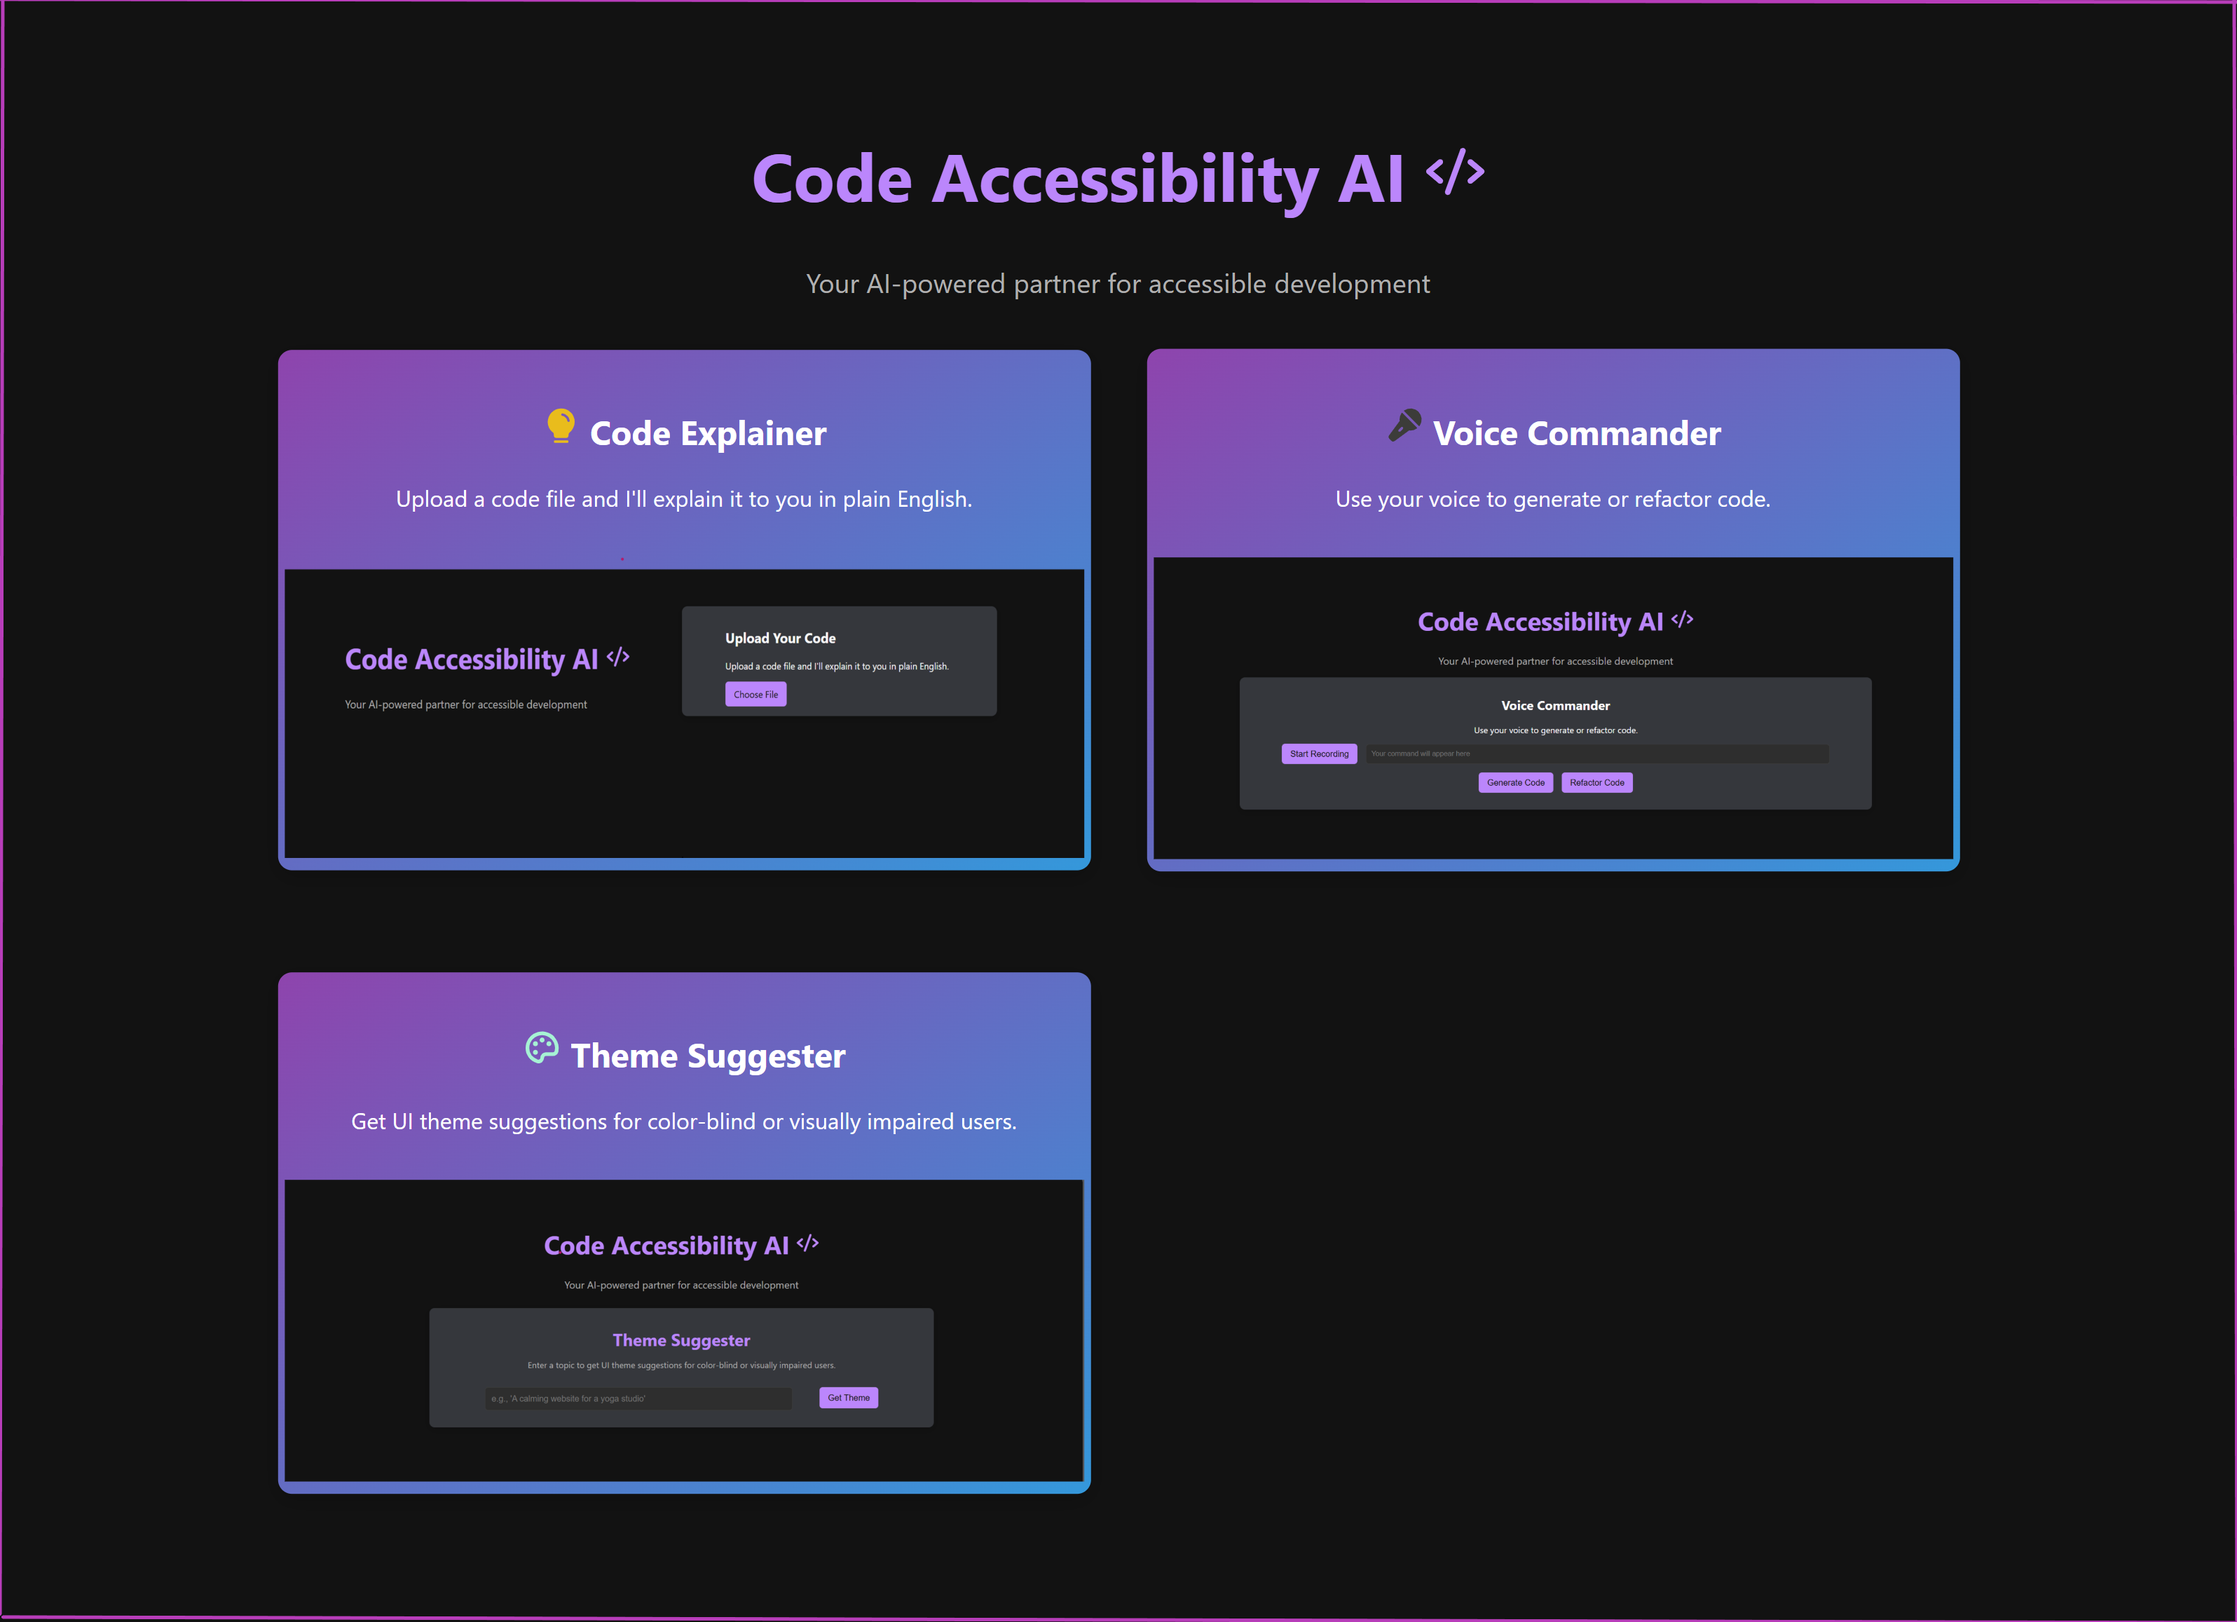
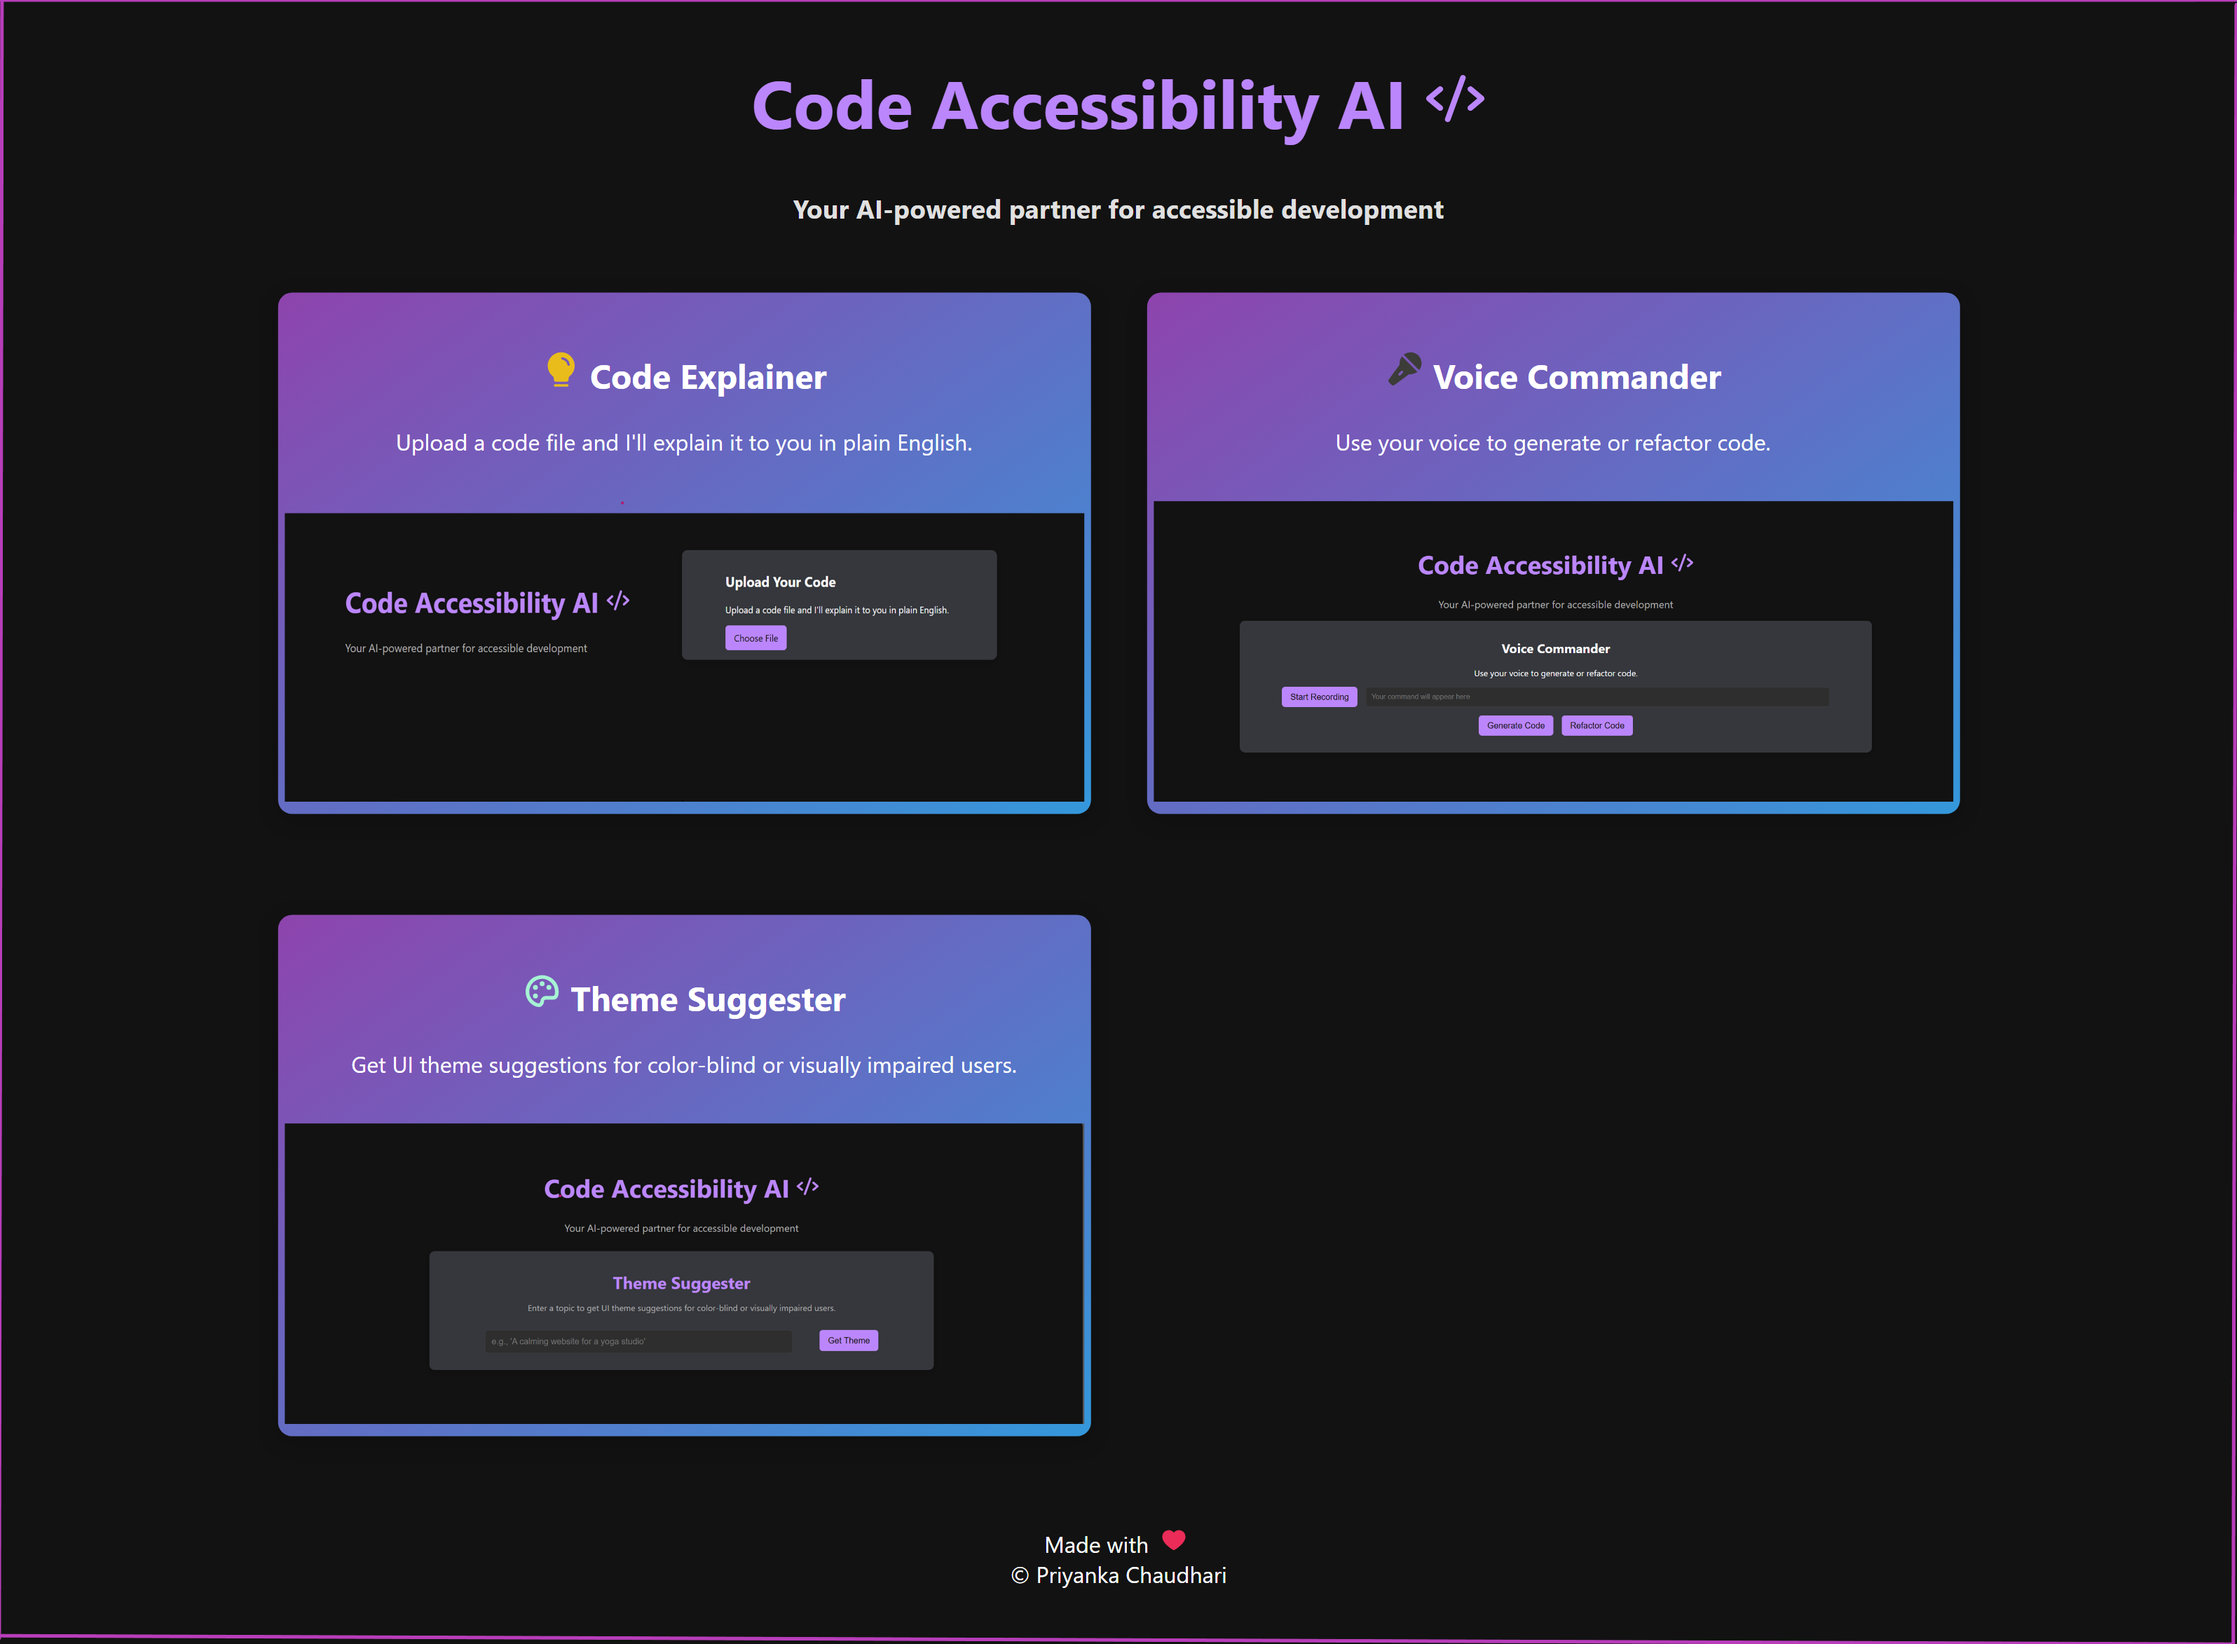
enhanced UI UX

diff --git a/client/src/components/VoiceCommander.js b/client/src/components/VoiceCommander.js
@@ -60,7 +60,7 @@ const VoiceCommander = ({ setSelectedFeature }) => {
     <div>
       <header className="header-content" tabIndex="0" onClick={() => setSelectedFeature(null)} onKeyDown={(e) => e.key === 'Enter' && setSelectedFeature(null)}>
         <h1 style={{ textAlign: 'center' }}>Code Accessibility AI <CodeIcon size={43} color="#bb86fc" weight="bold" /></h1>
-        <p style={{ textAlign: 'center' }}>Your AI-powered partner for accessible development</p>
+        <h3 style={{ textAlign: 'center' }}>Your AI-powered partner for accessible development</h3>
       </header>
       <div className="card-voice">
         <div style={{ textAlign: 'center' }}>

diff --git a/client/src/components/CodeExplainer.js b/client/src/components/CodeExplainer.js
@@ -63,7 +63,7 @@ const CodeExplainer = ({ setSelectedFeature }) => {
       <header className="grid-container">
         <div className="header-content" tabIndex="0" onClick={() => setSelectedFeature(null)} onKeyDown={(e) => e.key === 'Enter' && setSelectedFeature(null)}>
           <h1>Code Accessibility AI <CodeIcon size={43} color="#bb86fc" weight="bold" /></h1>
-          <p>Your AI-powered partner for accessible development</p>
+          <h3>Your AI-powered partner for accessible development</h3>
         </div>
         <section className="card-explainer">
           <h2>Upload Your Code</h2>

diff --git a/client/src/App.js b/client/src/App.js
@@ -24,7 +24,7 @@ function App() {
           <div>
             <header className="header-content-home">
               <h1>Code Accessibility AI <CodeIcon size={43} color="#bb86fc" weight="bold" /></h1>
-              <p>Your AI-powered partner for accessible development</p>
+              <h3>Your AI-powered partner for accessible development</h3>
             </header>
             <main className="grid-container">
               <div className="card" tabIndex="0" onClick={() => setSelectedFeature('explainer')} onKeyDown={(e) => e.key === 'Enter' && setSelectedFeature('explainer')}>

diff --git a/client/src/components/ThemeSuggester.js b/client/src/components/ThemeSuggester.js
@@ -39,9 +39,9 @@ const ThemeSuggester = ({ setSelectedFeature }) => {
         onKeyDown={(e) => e.key === "Enter" && setSelectedFeature(null)}
       >
         <h1 style={{ textAlign: "center" }}>Code Accessibility AI <CodeIcon size={43} color="#bb86fc" weight="bold" /></h1>
-        <p style={{ textAlign: "center" }}>
+        <h3 style={{ textAlign: "center" }}>
           Your AI-powered partner for accessible development
-        </p>
+        </h3>
       </header>
       <div className="theme-suggester">
         <h1>Theme Suggester</h1>

diff --git a/client/src/App.css b/client/src/App.css
@@ -42,10 +42,14 @@ body,html {
 .header-content-home{
   cursor: pointer;
   text-align: center;
+  margin-bottom: 5px;
 }
 .header-content-home h1 {
   font-size: 3rem;
   color: #bb86fc;
+}
+.header-content-home h3 {
+  margin-bottom: 2rem;
 }
 
 .header-content-home p {
@@ -236,7 +240,7 @@ footer{
   text-align: center;
   margin-top: 2rem;
   font-size: 1rem;
-  color: #f2eeee;
+  color: #ffffff;
 }
 
 @keyframes spin {

diff --git a/client/src/components/ThemeSuggester.css b/client/src/components/ThemeSuggester.css
@@ -17,7 +17,7 @@
 .theme-suggester p {
   text-align: center;
   margin-bottom: 2rem;
-  color: #b0b0b0;
+  color: #eae9e9;
 }
 
 .theme-suggester input {
